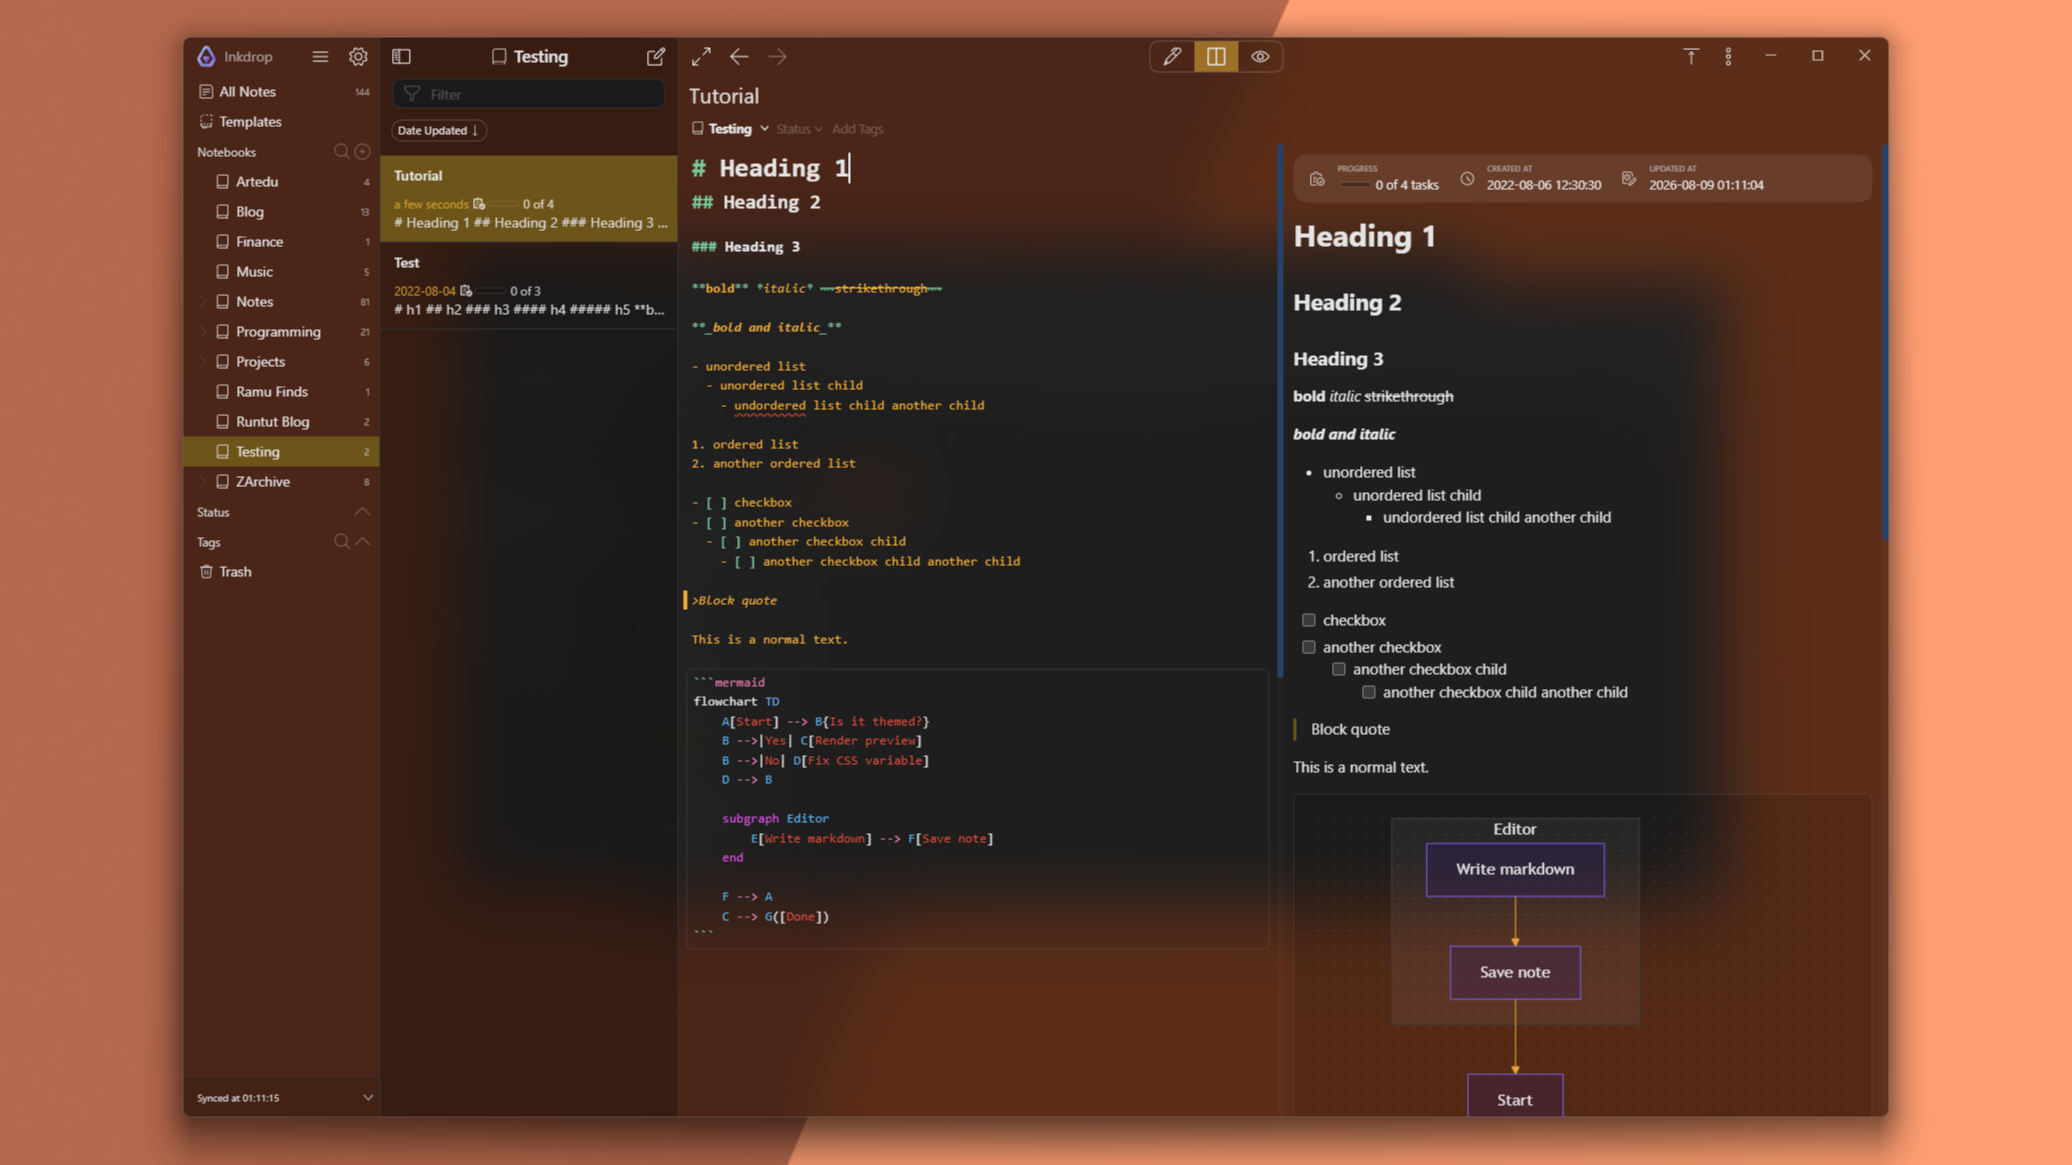
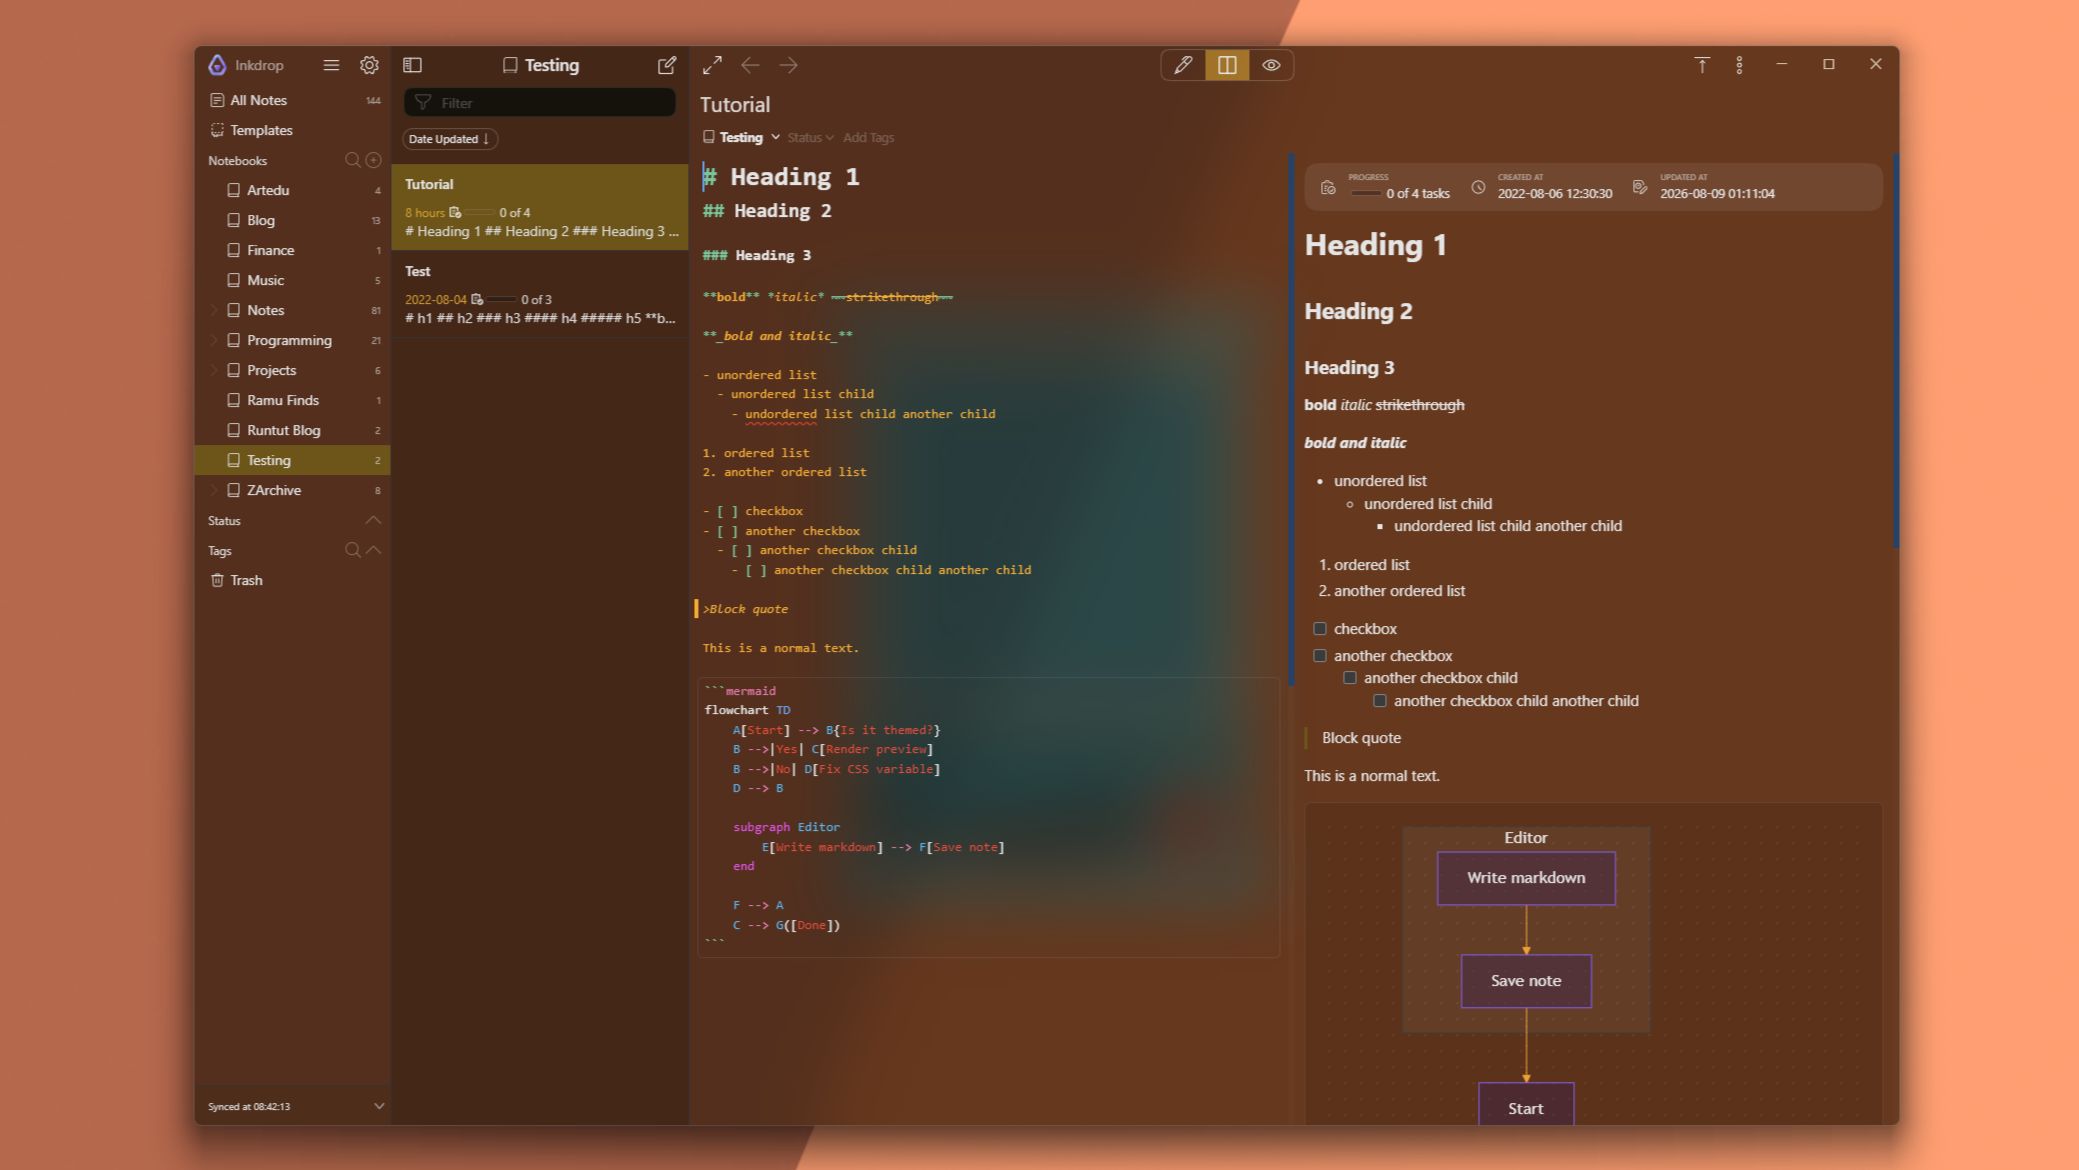
update(color): extend gold-tinted background to acrylic mode and note search bar

diff --git a/styles/ui.css b/styles/ui.css
@@ -154,7 +154,7 @@
     --note-list-view-item-date-color: var(--color-gold);
     --note-list-view-item-selected-background: var(--color-gold-400);
     --note-list-view-item-active-background: var(--color-gold-200);
-    --note-search-bar-input-background: hsl(var(--hsl-grey));
+    --note-search-bar-input-background: var(--color-bg);
     --mark-color: var(--color-gray-50);
 
     /*-------------------
@@ -208,13 +208,13 @@
   --------------------*/
   :root:has(body.acrylic-window) {
     --page-background: transparent;
-    --editor-background: rgb(0 0 0 / 20%);
-    --note-list-bar-background: rgb(0 0 0 / 40%);
-    --sidebar-background: rgb(0 0 0 / 20%);
-    --sidebar-sync-status-view-background: rgb(0 0 0 / 10%);
+    --editor-background: hsl(var(--hsl-bg) / 20%);
+    --note-list-bar-background: hsl(var(--hsl-bg) / 40%);
+    --sidebar-background: hsl(var(--hsl-bg) / 20%);
+    --sidebar-sync-status-view-background: hsl(var(--hsl-bg) / 10%);
   }
 
   :root:has(body.acrylic-window.platform-win32) {
-    --page-background: rgb(0 0 0 / 40%);
+    --page-background: hsl(var(--hsl-bg) / 40%);
   }
 }
